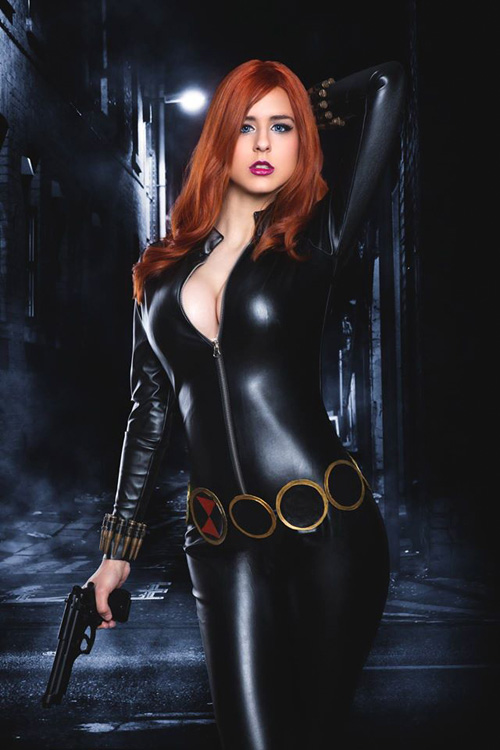
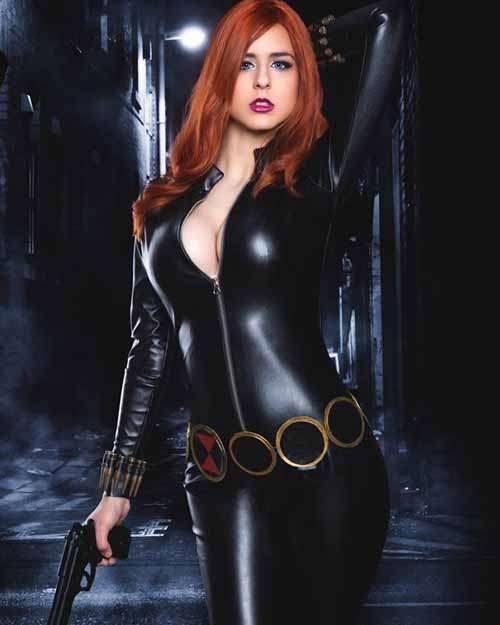
Modif de toutes les images du carousel (format 4:5), ajout bouton de defilement

diff --git a/js/main.js b/js/main.js
@@ -10,7 +10,7 @@ document.body.onload = function() {
     container = document.getElementById("containerCarousel");
     g = document.getElementById("g");
     d = document.getElementById("d");
-    container.style.width = (500 * nbr) + "px";
+    container.style.width = (400 * nbr) + "px";
     for (i = 1; i <= nbr; i++) {
         div = document.createElement("div");
         div.className = "photo";
@@ -27,11 +27,11 @@ document.body.onload = function() {
 d.onclick = function() {
     if (position > -nbr + 1) {
         position--;
-        container.style.transform = "translate(" + position * 500 + "px)";
+        container.style.transform = "translate(" + position * 400 + "px)";
         container.style.transition = "all 0.5s ease";
     } else {
         position = 0;
-        container.style.transform = "translate(" + -position * 500 + "px)";
+        container.style.transform = "translate(" + -position * 400 + "px)";
         container.style.transition = "all 0.5s ease";
     }
 }
@@ -39,11 +39,11 @@ d.onclick = function() {
 g.onclick = function() {
     if (position < 0) {
         position++;
-        container.style.transform = "translate(" + position * 500 + "px)";
+        container.style.transform = "translate(" + position * 400 + "px)";
         container.style.transition = "all 0.5s ease";
     } else {
         position = -4;
-        container.style.transform = "translate(" + position * 500 + "px)";
+        container.style.transform = "translate(" + position * 400 + "px)";
         container.style.transition = "all 0.5s ease";
     }
 

diff --git a/style/style.css b/style/style.css
@@ -63,11 +63,12 @@ header li a::after {
 
 #carouselGlobal {
     padding: 50px 0 0 0;
+    text-align: center;
 }
 
 #carousel {
     height: 500px;
-    width: 500px;
+    width: 400px;
     border: solid 4px #fff;
     box-shadow: 0 0 14px rgba(0, 0, 0, 0.3);
     position: relative;
@@ -76,12 +77,12 @@ header li a::after {
 
 #containerCarousel {
     height: 500px;
-    width: 500px;
+    width: 400px;
 }
 
 .photo {
     height: 500px;
-    width: 500px;
+    width: 400px;
     margin: 0;
     display: inline-block;
     background-size: cover;
@@ -126,7 +127,38 @@ header li a::after {
     border-radius: 5px;
 }
 
+#defilement {
+    position: relative;
+    top: 80px;
+}
+
+#defilement img {
+    transform: rotate(180deg);
+    border-radius: 155px;
+    max-width: 140px;
+}
+
+#defilement img:hover {
+    /* transform: rotate(180deg) scale(1.1); */
+    animation: 1.2s linear 0s infinite alternate pulse;
+}
+
 #profil {
     position: absolute;
     right: 30px;
+}
+
+@keyframes pulse {
+    0% {
+        -webkit-transform: scale3d(1, 1, 1);
+        transform: rotate(180deg) scale3d(1, 1, 1);
+    }
+    50% {
+        -webkit-transform: scale3d(1.1, 1.1, 1.1);
+        transform: rotate(180deg) scale3d(1.1, 1.1, 1.1);
+    }
+    100% {
+        -webkit-transform: scale3d(1, 1, 1);
+        transform: rotate(180deg) scale3d(1, 1, 1);
+    }
 }

diff --git a/pages/index.php b/pages/index.php
@@ -17,7 +17,7 @@
 
     <div class="container-fluid colBk" id="carouselGlobal">
     <div class="row">
-        <div class="col" id="">
+        <div class="col" id="carouselCol">
             <!-- <div id="bk"><img class="img-responsive" src="../images/background.jpg" alt="Responsive image"></div> -->
             <!-- <div class="row"> -->
                 <!-- <div class="col" id="accueil"> -->
@@ -35,7 +35,7 @@
                         </div>
                         <div class="col"></div>
                     </div>
-                    <br>
+                    <a href="#" id="defilement"><img src="../images/defilement.png" alt="fleche"></a>
                 </div>
             </div>
         </div>
